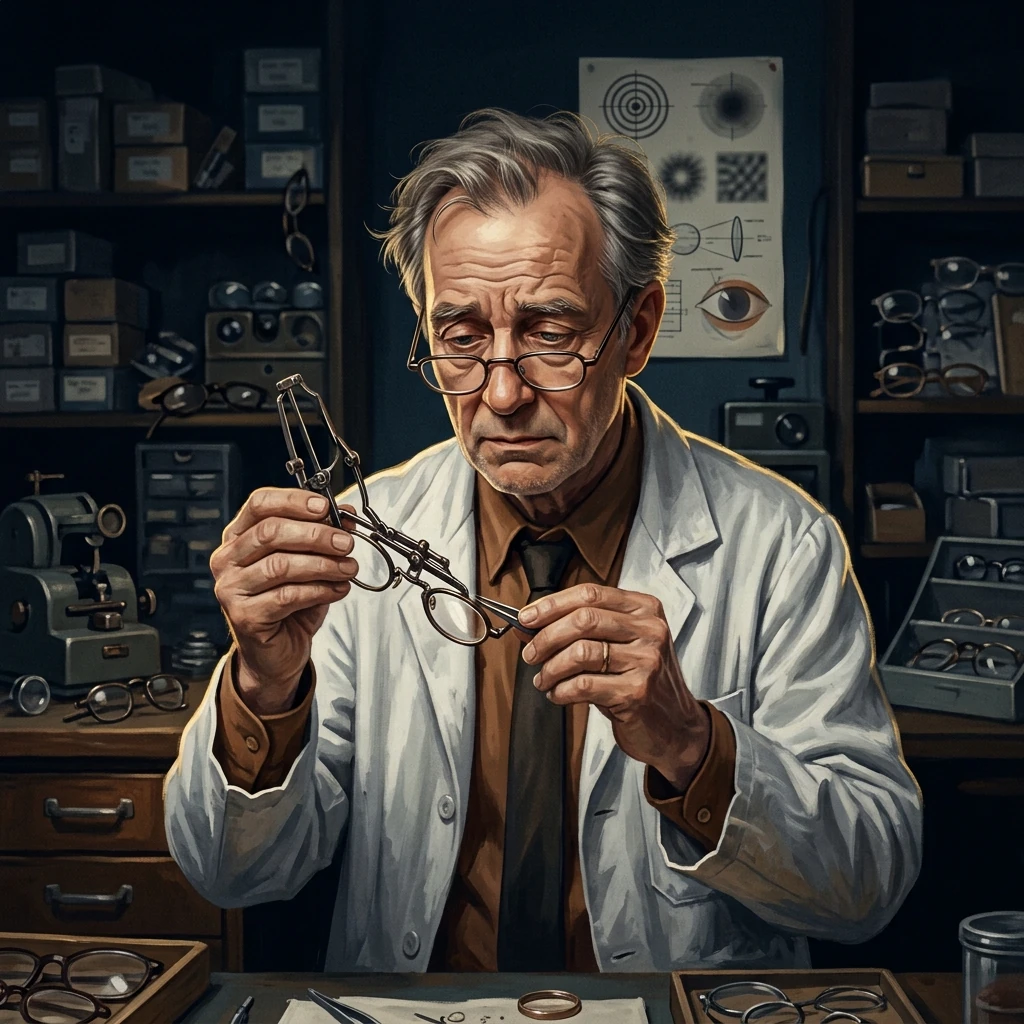
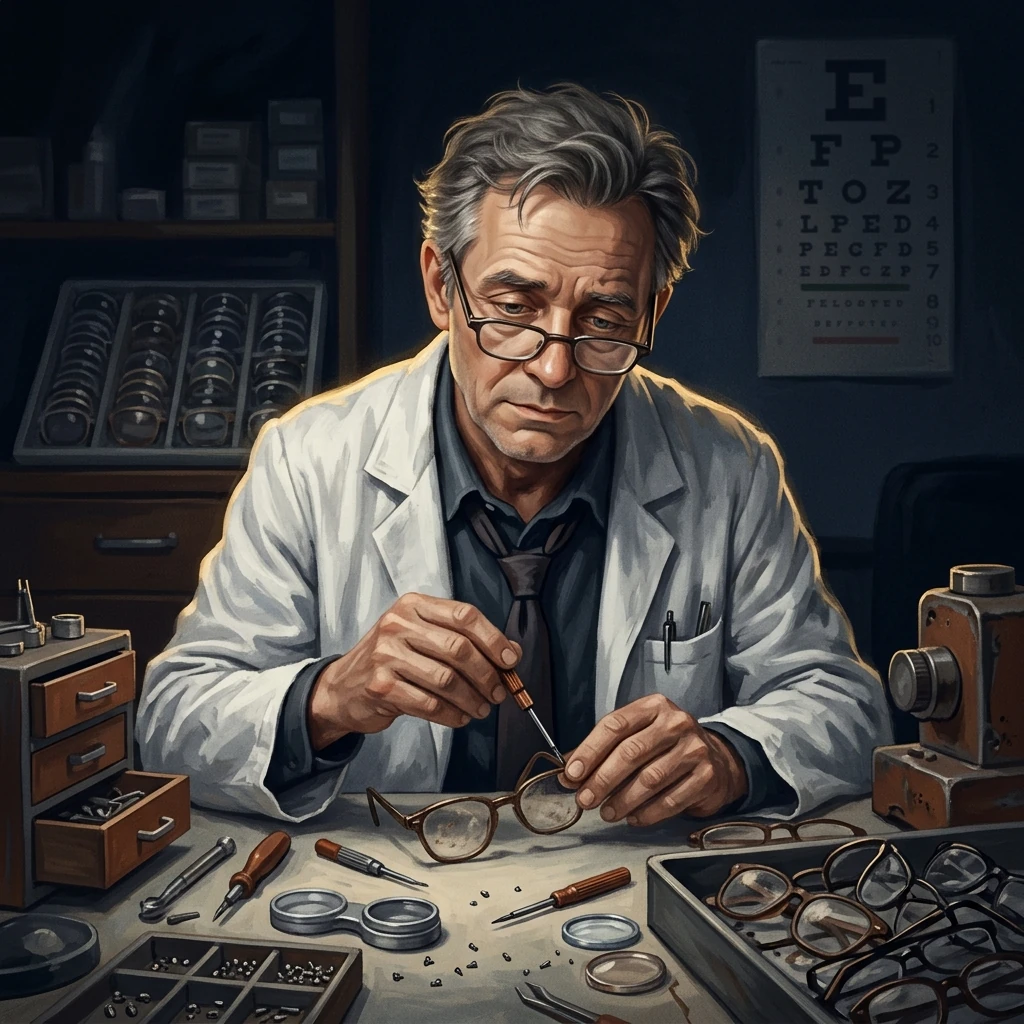
illustration : atelier-opticien (image, registre, art:)

diff --git a/src/data/atelier.ts b/src/data/atelier.ts
@@ -63,6 +63,7 @@ export const ATELIER_CARDS: PlanqueCard[] = [
     retreat: 1,
     attacks: [{ name: 'Réglage', cost: ['ATELIER'], damage: 20, text: 'Le Planqué adverse est réglé au tournevis. La mesure, elle, est faite sur tableur.' }],
     flavor: 'Il règle la lunette à la main. La mesure est faite sur tableur.',
+    art: 'atelier-opticien.webp'
   }),
   base({
     id: 'atelier-rpo',

diff --git a/design/illustrations/README.md b/design/illustrations/README.md
@@ -216,3 +216,4 @@ au lieu d'afficher un aplat en silence. Le champ `art` reste le **nom de fichier
 - 2026-10-26 · `management-jeune-manager` · modèle `NARWHAL` · graine `1089462067` · `management-jeune-manager.webp`
 - 2026-10-26 · `management-manager-proximite` · modèle `NARWHAL` · graine `1044749969` · `management-manager-proximite.webp`
 - 2026-10-26 · `atelier-responsable-pole` · modèle `NARWHAL` · graine `1800782826` · `atelier-responsable-pole.webp`
+- 2026-10-26 · `atelier-opticien` · modèle `NARWHAL` · graine `1117579981` · `atelier-opticien.webp`
